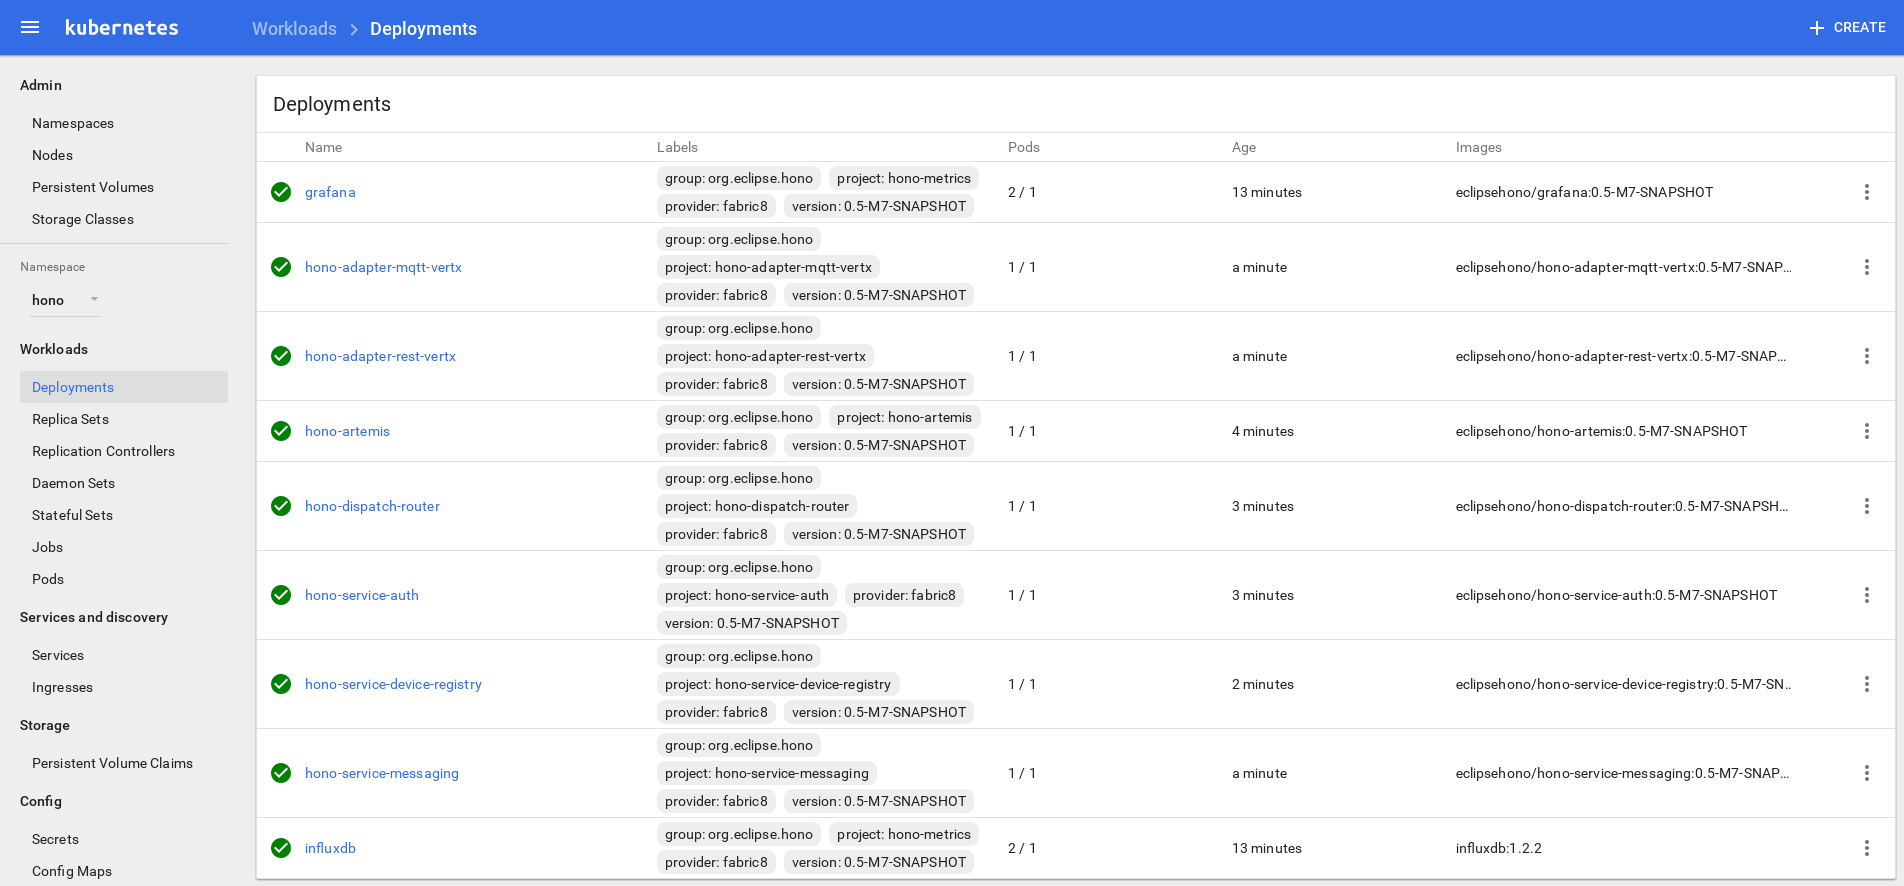
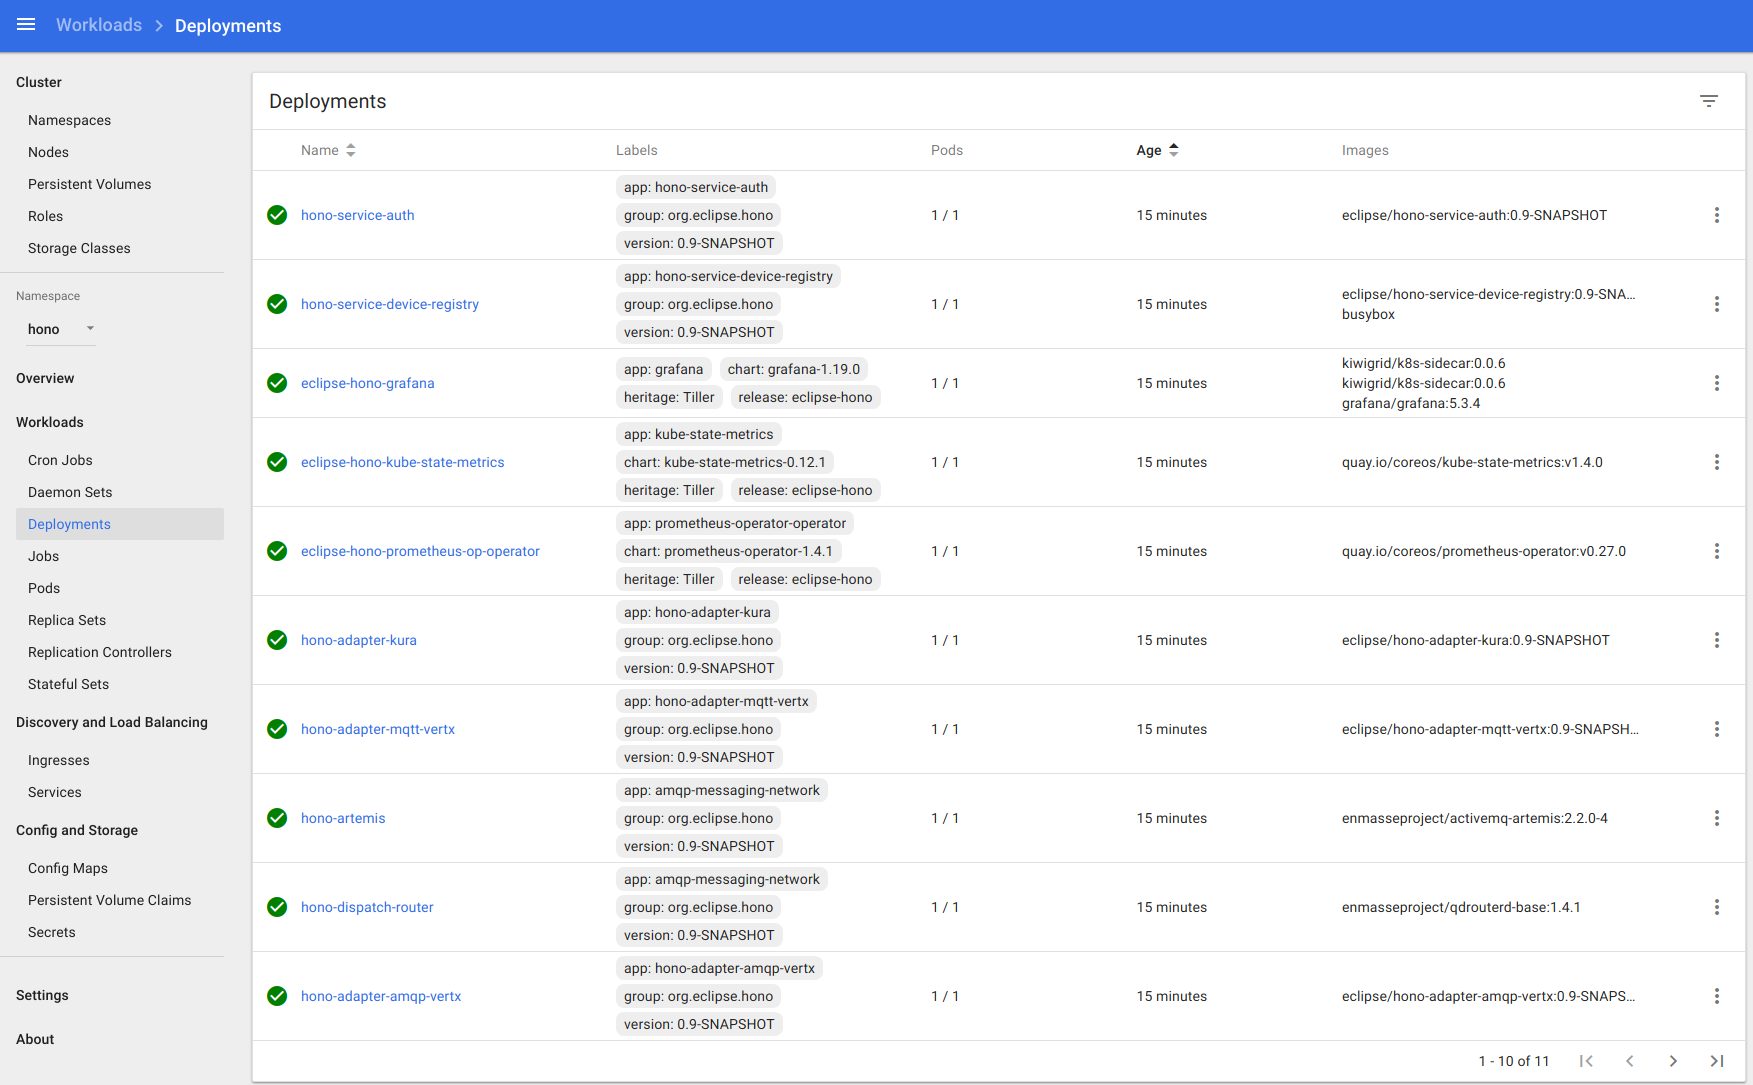
[#413] Do not require OLM for Helm based deployment.
The Helm based deployment does not require OLM because it deploys the
Prometheus Operator using its official chart instead of a CRD.

Fixes #413

diff --git a/site/content/deployment/kubernetes.md b/site/content/deployment/kubernetes.md
@@ -10,12 +10,9 @@ to communicate with each other.
 
 ## Prerequisites
 
-The main prerequisite for this kind of deployment is to have an available Kubernetes cluster, running version 1.11.x or newer. For a local development, it's pretty simple having such cluster using Minikube 
-which is a tool that helps you run Kubernetes locally by running a single-node Kubernetes cluster inside a VM. Follow [this guide](https://kubernetes.io/docs/getting-started-guides/minikube/)
-for installing and having Minikube up and running.
+The main prerequisite for this kind of deployment is to have an available Kubernetes cluster, running version 1.11.x or newer. For a local development, it's pretty simple having such cluster using Minikube which is a tool that helps you run Kubernetes locally by running a single-node Kubernetes cluster inside a VM. Follow [this guide](https://kubernetes.io/docs/getting-started-guides/minikube/) for installing and having Minikube up and running.
 
-The other prerequisite is to have the Kubectl command line tool for interacting with the Kubernetes cluster. Follow [this guide](https://kubernetes.io/docs/tasks/tools/install-kubectl/) 
-for installing and configuring such a tool.
+The other prerequisite is to have the Kubectl command line tool for interacting with the Kubernetes cluster. Follow [this guide](https://kubernetes.io/docs/tasks/tools/install-kubectl/) for installing and configuring such a tool.
 
 After launching Minikube and before building the Eclipse Hono images, it's necessary to execute the following command:
 
@@ -30,28 +27,14 @@ such daemon will be used and the final images will be available inside the Minik
 ~/hono$ mvn clean install -Pbuild-docker-image,metrics-prometheus
 ~~~
 
-### OLM deployment
+## Helm based Deployment
 
-The Hono deployment requires the OLM to be deployed in the Kubernetes cluster if
-you want to use the Prometheus deployment provided by Hono. This can be done by
-executing the `olm_deploy.sh` script. This step is only required once for a
-cluster. You may skip this step if you don't want to use Prometheus based
-metrics, or want to deploy Prometheus yourself.
+The easiest (and recommended) way to deploy Eclipse Hono to a Kubernetes cluster is to use the *Helm* tool.
+In order to use Helm, you need to have it installed properly on your system. Please refer to [Helm's installation instructions](https://docs.helm.sh/install/) for details.
 
-From the directory `deploy/target/deploy/kubernetes` run:
+### Deploying Hono using Helm's Tiller Service
 
-~~~sh
-~hono/deploy/target/deploy/kubernetes$ chmod +x *.sh
-~hono/deploy/target/deploy/kubernetes$ ./olm_deploy.sh
-~~~
-
-## Helm deployment
-
-The easiest way to deploy Eclipse Hono to Kubernetes cluster is to use Helm. You can use Helm with or without Helm's *Tiller* service. In order to use Helm, you need to have it installed properly on your system.
-Please refer to [Helm's installation instructions](https://docs.helm.sh/install/) for details.
-
-### Install Eclipse Hono with Helm
-
+You can deploy Hono using Helm with or without the *Tiller* service.
 To deploy Eclipse Hono to the cluster with installed Tiller service, simply run
 
 ~~~sh
@@ -68,38 +51,38 @@ $ helm status eclipse-hono
 $ helm get eclipse-hono
 ~~~
 
-### Install Eclipse Hono without using Helm Tiller service
+### Deploying Hono without using Helm's Tiller Service
 
-If you for whatever reason can't or don't want to install Helm Tiller server in your cluster, you can still use the resources and deploy them manually.
-To generate Eclipse Hono resources locally with Helm, run
+If, for whatever reason, you can't or don't want to install Helm's Tiller service in your cluster, you can still use the resources created by Helm and deploy them manually using the `kubectl` command line tool.
+To generate the resources locally with Helm, run
 
 ~~~sh
 ~hono/deploy$ helm dep update target/deploy/helm/
 ~hono/deploy$ helm template --name eclipse-hono --namespace hono --output-dir . target/deploy/helm/
 ~~~
 
-This should create `eclipse-hono` folder with all the resources. Now, you can use `kubectl` to deploy them to any Kubernetes cluster
+This should create an `eclipse-hono` folder with all the resources. Now, you can use `kubectl` to deploy them to any Kubernetes cluster
 
 ~~~sh
 ~hono/deploy$ kubectl apply -f ./eclipse-hono --namespace hono
 ~~~
 
-### Use Eclipse Hono
+### Using Hono
 
 After successful installation, you can proceed and [access your Hono services](#accessing-hono-services)
 
-### Uninstall Eclipse Hono
+### Undeploying Hono
 
-To uninstall Eclipse Hono that has been installed using Helm's Tiller service, run
+To undeploy a Hono instance that has been deployed using Helm's Tiller service, run
 
 ~~~sh
 ~hono/deploy$ helm delete --purge eclipse-hono
 ~hono/deploy$ kubectl delete crd prometheuses.monitoring.coreos.com delete crd prometheusrules.monitoring.coreos.com servicemonitors.monitoring.coreos.com alertmanagers.monitoring.coreos.com
 ~~~
 
-The additional delete commands are necessary to clean [Prometheus operator CRDs](https://github.com/helm/charts/tree/master/stable/prometheus-operator#uninstalling-the-chart).
+The additional `kubectl delete` command is necessary to remove [Prometheus operator CRDs](https://github.com/helm/charts/tree/master/stable/prometheus-operator#uninstalling-the-chart).
 
-To uninstall Eclipse Hono that has been installed manually, run
+To undeploy a Hono instance that has been deployed manually from the resource files, run
 
 ~~~sh
 ~hono/deploy$ kubectl delete -f ./eclipse-hono --namespace hono
@@ -107,10 +90,25 @@ To uninstall Eclipse Hono that has been installed manually, run
 
 ## Script based Deployment
 
-In order to deploy Eclipse Hono on Kubernetes, a bunch of steps are needed as explained in the next chapter. If you want to avoid to do them manually, a _one click_ deployment
-script is available in the repository.
-After having the Kubernetes cluster up and running and the `kubectl` command line tool in the PATH, the deployment can be done by running the following bash script
-(from the `deploy/target/deploy/kubernetes` directory)
+As an alternative to the recommended Helm based deployment, Hono can also be deployed to a Kubernetes cluster using a shell script which takes care of deploying Hono's components using multiple `kubectl` commands. This approach requires the [Operator Lifecycle Manager](https://github.com/operator-framework/operator-lifecycle-manager) (OLM) to be available on the Kubernetes cluster.
+
+### Deploying the Operator Lifecycle Manager
+
+OLM is used for creating a Prometheus instance which is used as the metrics back end by Hono.
+OLM can be installed by executing the `olm_deploy.sh` script. This step is only required once for a
+cluster. You may skip this step if you don't want to use Prometheus based
+metrics, or want to deploy Prometheus yourself.
+
+From the directory `deploy/target/deploy/kubernetes` run:
+
+~~~sh
+~hono/deploy/target/deploy/kubernetes$ chmod +x *.sh
+~hono/deploy/target/deploy/kubernetes$ ./olm_deploy.sh
+~~~
+
+### Deploying Hono
+
+After having the Kubernetes cluster up and running and the `kubectl` command line tool in the PATH, the deployment can be done by running the following bash script from the `deploy/target/deploy/kubernetes` folder.
 
 ~~~sh
 ~hono/deploy/target/deploy/kubernetes$ chmod +x *.sh
@@ -142,32 +140,38 @@ You may also deploy each of Hono's components separately by copying the relevant
 
 ## Accessing Hono Services
 
-The Kubernetes deployment provides access to Eclipse Hono by means of *services* and the main ones are:
+The Kubernetes deployment provides access to Hono by means of *services* and the main ones are:
 
 * **hono-dispatch-router-ext**: router network for the business application in order to consume data
 * **hono-adapter-amqp-vertx**: protocol adapter for publishing telemetry data and events using the AMQP 1.0 protocol
 * **hono-adapter-mqtt-vertx**: protocol adapter for publishing telemetry data and events using the MQTT protocol
-* **hono-adapter-rest-vertx**: protocol adapter for publishing telemetry data and events using the HTTP protocol
+* **hono-adapter-http-vertx**: protocol adapter for publishing telemetry data and events using the HTTP protocol
 * **hono-service-device-registry**: component for registering and managing devices
 
-You can check these services through the `kubectl get services --namespace hono` command having the following output :
+You can get a list of these services running:
 
 ~~~sh
-NAME                           CLUSTER-IP      EXTERNAL-IP   PORT(S)                                      AGE
-grafana                        10.0.0.115      <nodes>       3000:31000/TCP                               15m
-hono-adapter-amqp-vertx        10.108.52.132   <none>        4040:30040/TCP,4041:30041/TCP                6m
-hono-adapter-mqtt-vertx        10.0.0.155      <nodes>       1883:31883/TCP,8883:30883/TCP                2m
-hono-adapter-rest-vertx        10.0.0.184      <nodes>       8080:30080/TCP,8443:30443/TCP                3m
-hono-artemis                   10.0.0.11       <none>        5672/TCP                                     6m
-hono-dispatch-router           10.0.0.175      <none>        5673/TCP                                     5m
-hono-dispatch-router-ext       10.0.0.124      <nodes>       5671:30671/TCP,5672:30672/TCP                5m
-hono-service-auth              10.0.0.116      <none>        5671/TCP                                     5m
-hono-service-device-registry   10.0.0.248      <none>        5671:31671/TCP,8080:31080/TCP,8443:31443/TCP 4m
-hono-service-messaging         10.0.0.223      <none>        5671/TCP                                     3m
-influxdb                       10.0.0.217      <none>        2003/TCP,8083/TCP,8086/TCP                   15m
+$ kubectl get services --namespace hono
+
+NAME                                    TYPE        CLUSTER-IP       EXTERNAL-IP   PORT(S)                                                       AGE
+eclipse-hono-grafana                    ClusterIP   10.104.193.167   <none>        80/TCP                                                        2m
+eclipse-hono-kube-state-metrics         ClusterIP   10.107.92.96     <none>        8080/TCP                                                      2m
+eclipse-hono-prometheus-node-exporter   ClusterIP   10.101.235.63    <none>        9100/TCP                                                      2m
+eclipse-hono-prometheus-op-operator     ClusterIP   10.103.73.214    <none>        8080/TCP                                                      2m
+grafana                                 NodePort    10.109.160.126   <none>        3000:31000/TCP                                                2m
+hono-adapter-amqp-vertx                 NodePort    10.107.180.234   <none>        5672:30040/TCP,5671:30041/TCP,8081:32498/TCP                  2m
+hono-adapter-http-vertx                 NodePort    10.111.106.170   <none>        8080:30080/TCP,8443:30443/TCP,8081:30969/TCP                  2m
+hono-adapter-kura                       NodePort    10.96.215.55     <none>        1883:31884/TCP,8883:30884/TCP,8081:30950/TCP                  2m
+hono-adapter-mqtt-vertx                 NodePort    10.109.67.134    <none>        1883:31883/TCP,8883:30883/TCP,8081:30852/TCP                  2m
+hono-artemis                            ClusterIP   10.103.0.92      <none>        5671/TCP                                                      2m
+hono-dispatch-router                    ClusterIP   10.99.252.201    <none>        5673/TCP                                                      2m
+hono-dispatch-router-ext                NodePort    10.102.205.168   <none>        5671:30671/TCP,5672:30672/TCP                                 2m
+hono-service-auth                       ClusterIP   10.103.101.237   <none>        5671/TCP,8081/TCP                                             2m
+hono-service-device-registry            NodePort    10.96.143.66     <none>        5671:31671/TCP,8080:31080/TCP,8443:31443/TCP,8081:30651/TCP   2m
+prometheus-operated                     ClusterIP   None             <none>        9090/TCP                                                      52s
 ~~~
 
-These services are accessible using the Minikube VM's IP address (which you can get with the `minikube ip` command) and the so called *node ports* (i.e. 30080, 30671, ...).
+The services of type `NodePort` are accessible at the Minikube VM's IP address (which you can get with the `minikube ip` command) and the corresponding *node ports* (e.g. 30080, 30671, ...).
 In the following sections the `$(minikube ip)` is used  in order to put the IP address of the Minikube VM into the command to execute.
 
 ### Starting a Consumer
